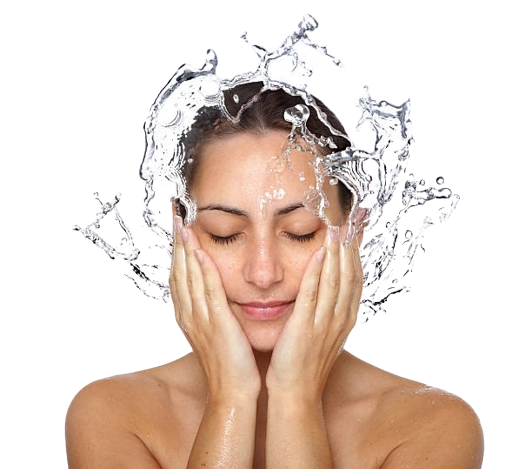
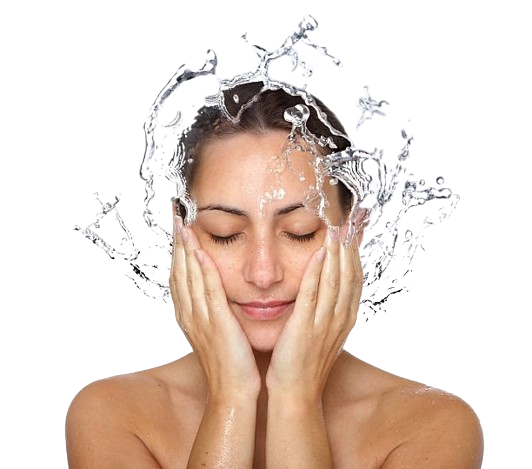
added images and updated index.html, website.css

diff --git a/website.css b/website.css
@@ -9,6 +9,10 @@ body{
 }
 
 /* ---------- HOME PAGE STYLING: ---------- */
+#home-background{
+    background: #00473E;
+}
+
 .home-nav .nav-list-item, .nav-list-search {
     display: inline-block;
     font-size: 0.9rem;
@@ -64,9 +68,17 @@ body{
     margin-top: -5rem;
 }
 
-#home-background{
-    background: #00473E;
+#woman{
+    display: block;
+    margin-left: 5rem;
+    margin-right: auto;
+    margin-top: -21rem;
 }
+
+
+
+
+
 
 
 /*  ---------- ABOUT PAGE STYLING ---------- */

diff --git a/index.html b/index.html
@@ -27,8 +27,8 @@
    </nav>
     <main>
         <img id="white-logo" src="images/icons/white-logo.png" alt="company logo">
-        <img src="images/other/careflow-1.png" alt="background-image-woman">
-        <img src="images/other/removebg-preview-1.png" alt="background-image-flowers">
+        <img id="woman" src="images/other/careflow-1-water.png" alt="background-image-woman" height="840">
+      
     </main>
 </body>
 </html>
